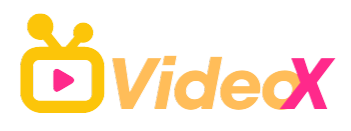
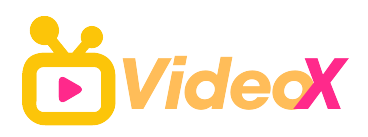
final updated

diff --git a/src/components/header/Header.jsx b/src/components/header/Header.jsx
@@ -7,7 +7,7 @@ import { useNavigate, useLocation } from "react-router-dom";
 import "./style.scss";
 
 import ContentWrapper from "../contentWrapper/ContentWrapper";
-import logo from "../../assets/Logo.svg";
+import logo from "../../assets/videox.png";
 
 const Header = () => {
     const [show, setShow] = useState("top");
